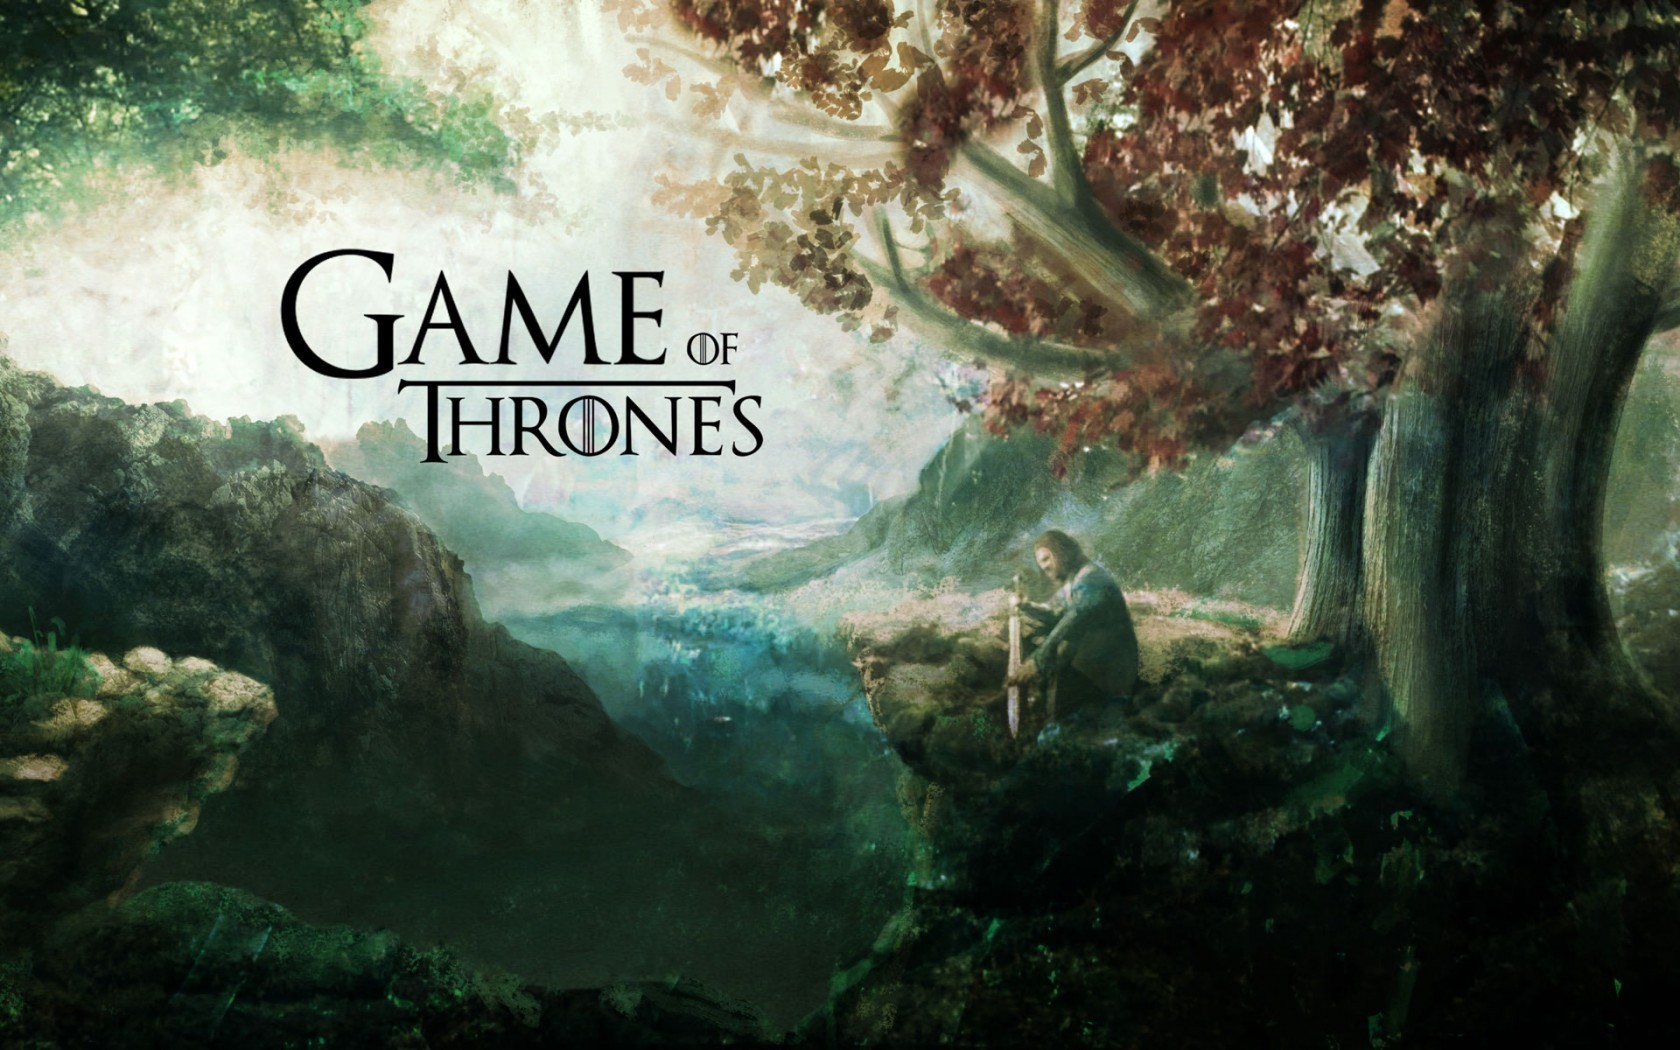
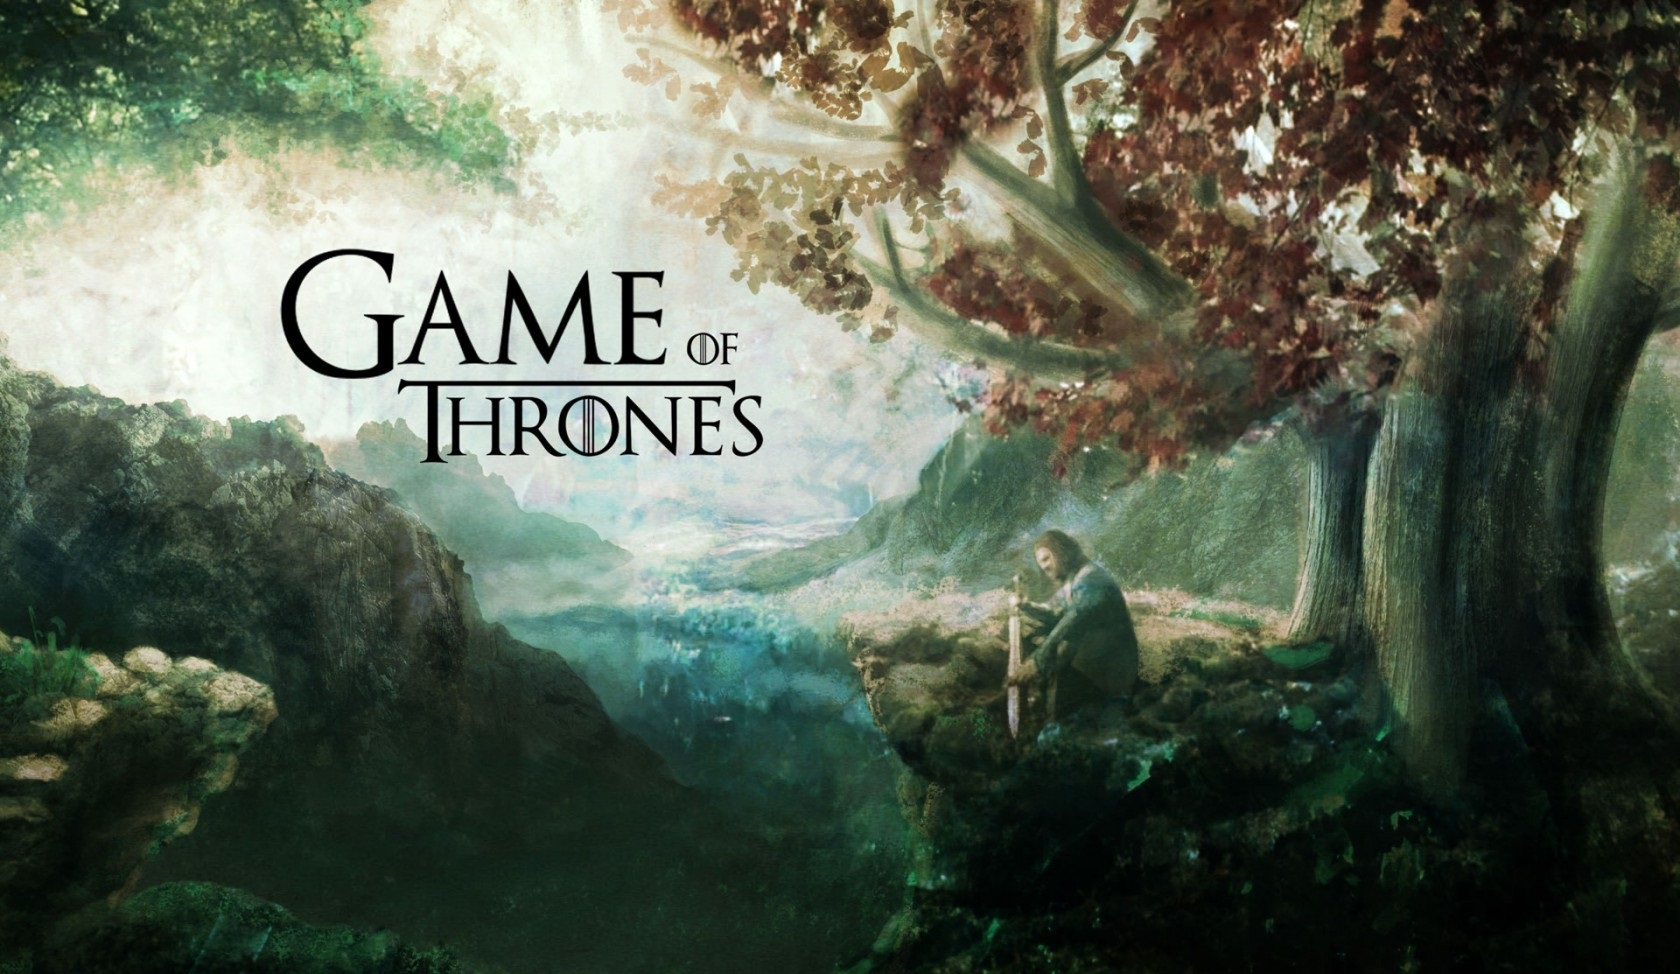
Edit images to fit scaling better; minor changes

diff --git a/app/static/js/carousel.js b/app/static/js/carousel.js
@@ -1,9 +1,8 @@
 jQuery(document).ready(function() {
-  var $item = $('.carousel .item'); 
-  var $wHeight = $(window).height();
+  var $item = $('.carousel .item');
 
-  $item.height($wHeight); 
-  $item.addClass('full-screen');
+  $item.height($(window).height());
+  $item.addClass('fill');
 
   $('.carousel img').each(function() {
     var $src = $(this).attr('src');
@@ -13,9 +12,8 @@ jQuery(document).ready(function() {
     $(this).remove();
   });
 
-  $(window).on('resize', function (){
-    $wHeight = $(window).height();
-    $item.height($wHeight);
+  $(window).on('resize', function() {
+    $item.height($(window).height());
   });
 
   $('.carousel').carousel({

diff --git a/app/static/index.html b/app/static/index.html
@@ -52,16 +52,16 @@
 
     <div class="carousel-inner" role="listbox">
       <div class="item active">
-        <img class="fill" src="img/bg1.jpg" alt="got1">
+        <img src="img/bg1.jpg" alt="got1">
       </div>
       <div class="item">
-        <img class="fill" src="img/bg2.jpg" alt="got2">
+        <img src="img/bg2.jpg" alt="got2">
       </div>
       <div class="item">
-        <img class="fill" src="img/bg3.jpg" alt="got3">
+        <img src="img/bg3.jpg" alt="got3">
       </div>
       <div class="item">
-        <img class="fill" src="img/bg4.jpg" alt="got4">
+        <img src="img/bg4.jpg" alt="got4">
       </div>
     </div>
   </div>

diff --git a/app/static/css/carousel.css b/app/static/css/carousel.css
@@ -24,7 +24,7 @@ body {
   -o-background-size: cover;
 }*/
 
-.full-screen {
+.fill {
   background-size: cover;
   -webkit-background-size: cover;
   -moz-background-size: cover;
